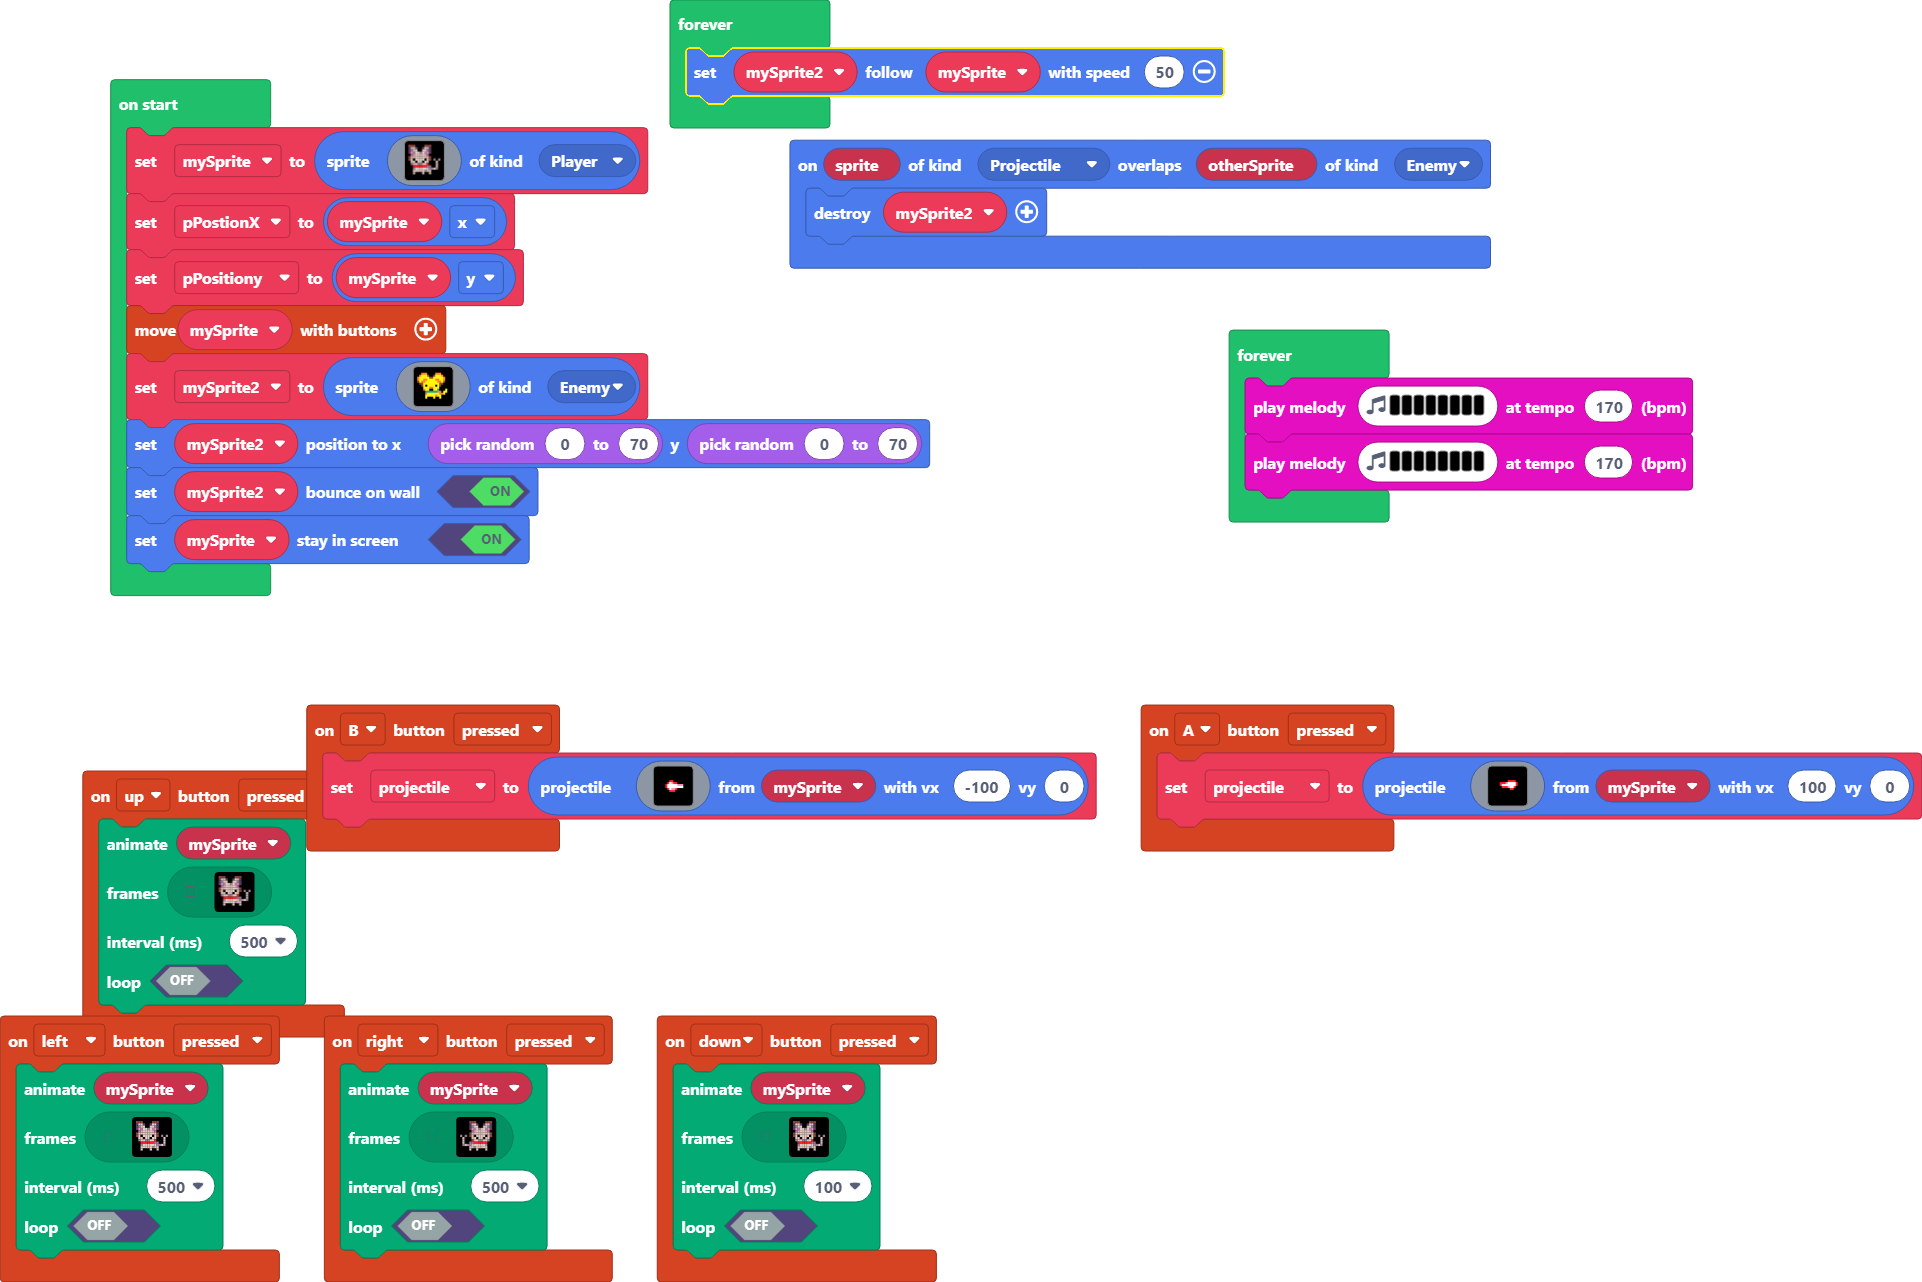
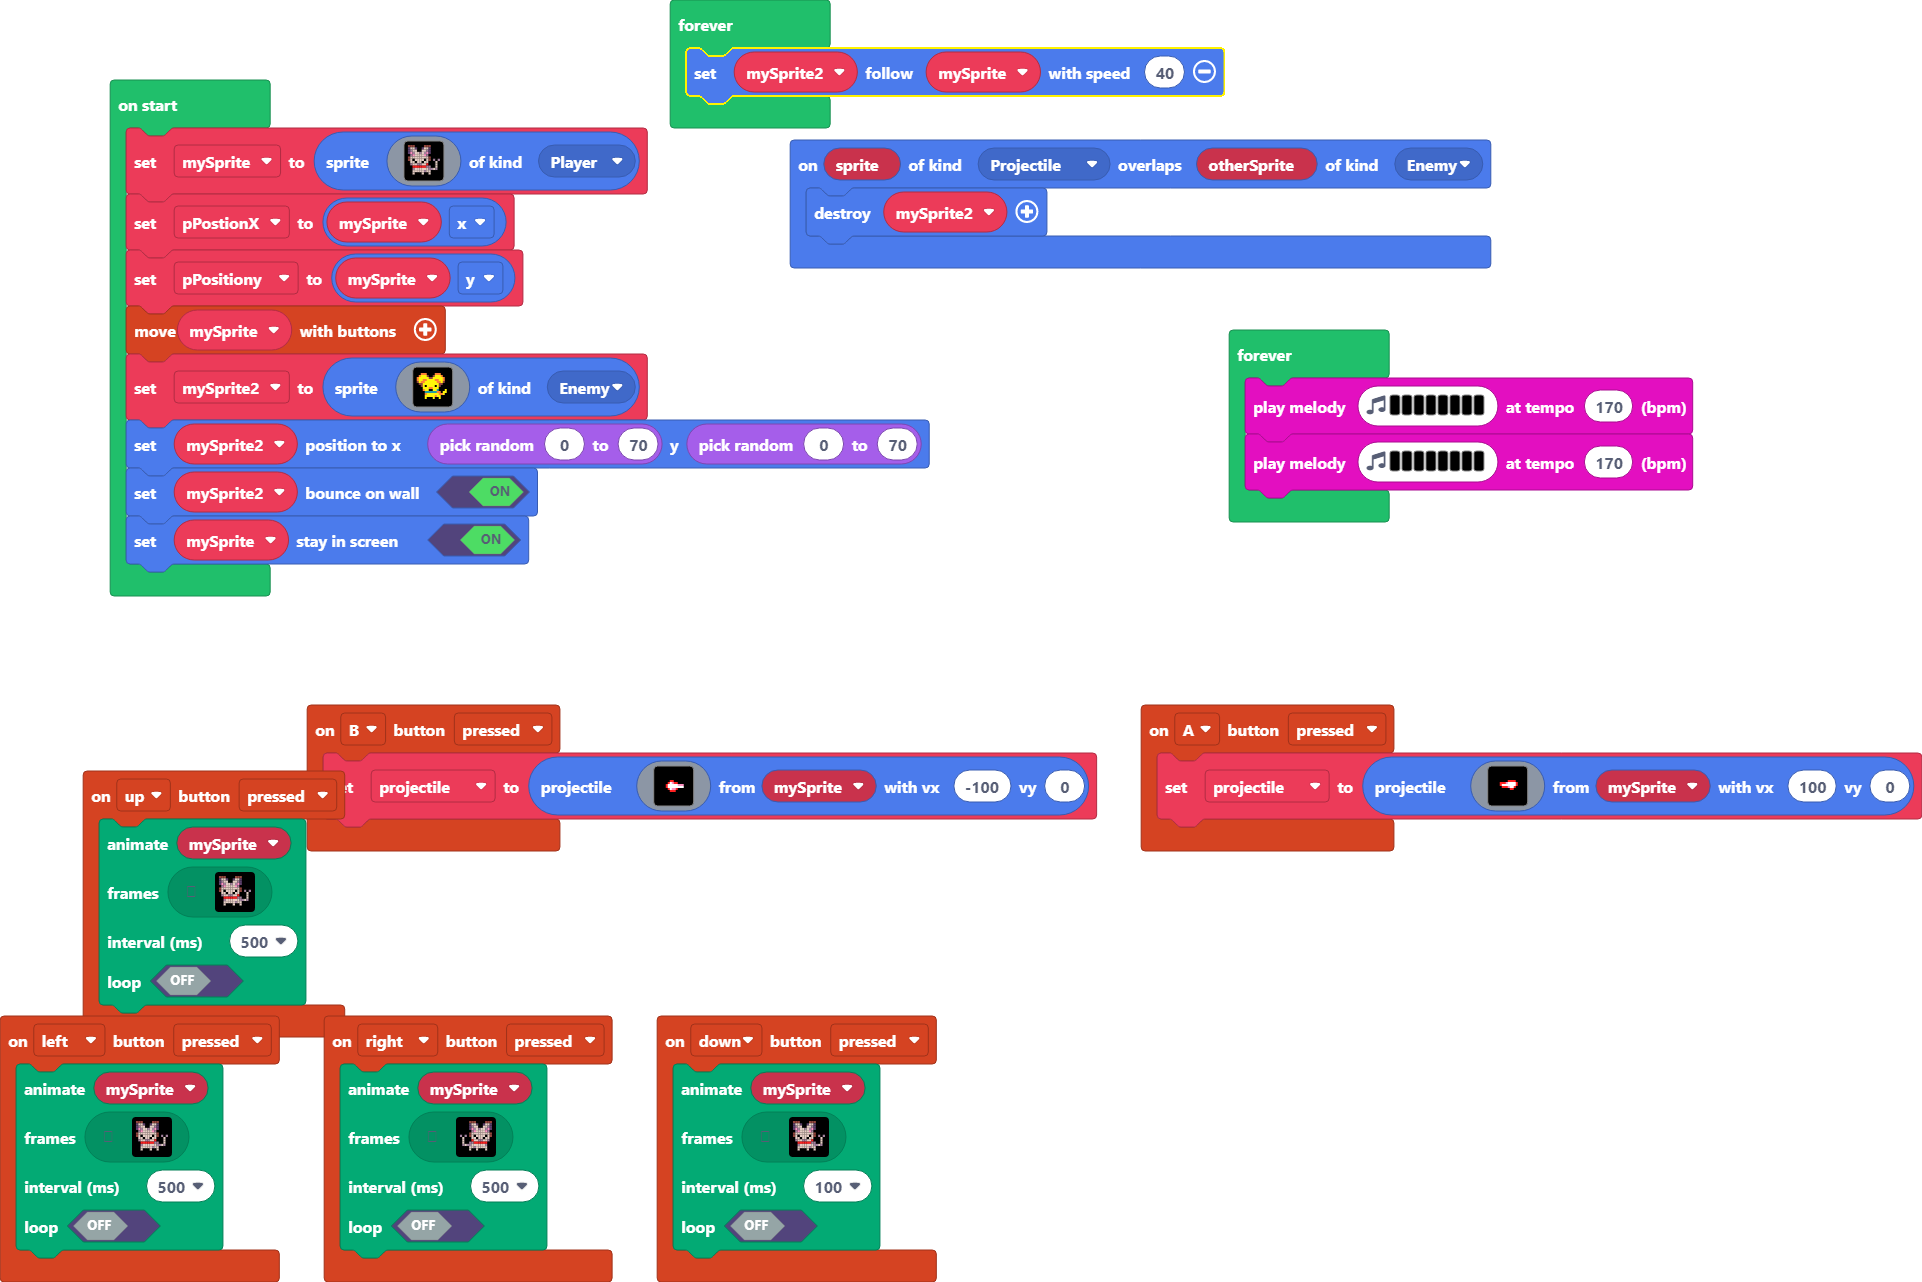
Update main.blocks, main.ts

diff --git a/main.ts b/main.ts
@@ -295,7 +295,7 @@ mySprite2.setPosition(randint(0, 70), randint(0, 70))
 mySprite2.setBounceOnWall(true)
 mySprite.setStayInScreen(true)
 forever(function () {
-    mySprite2.follow(mySprite, 50)
+    mySprite2.follow(mySprite, 40)
 })
 forever(function () {
     music.playMelody("D E F D E F D E ", 170)
